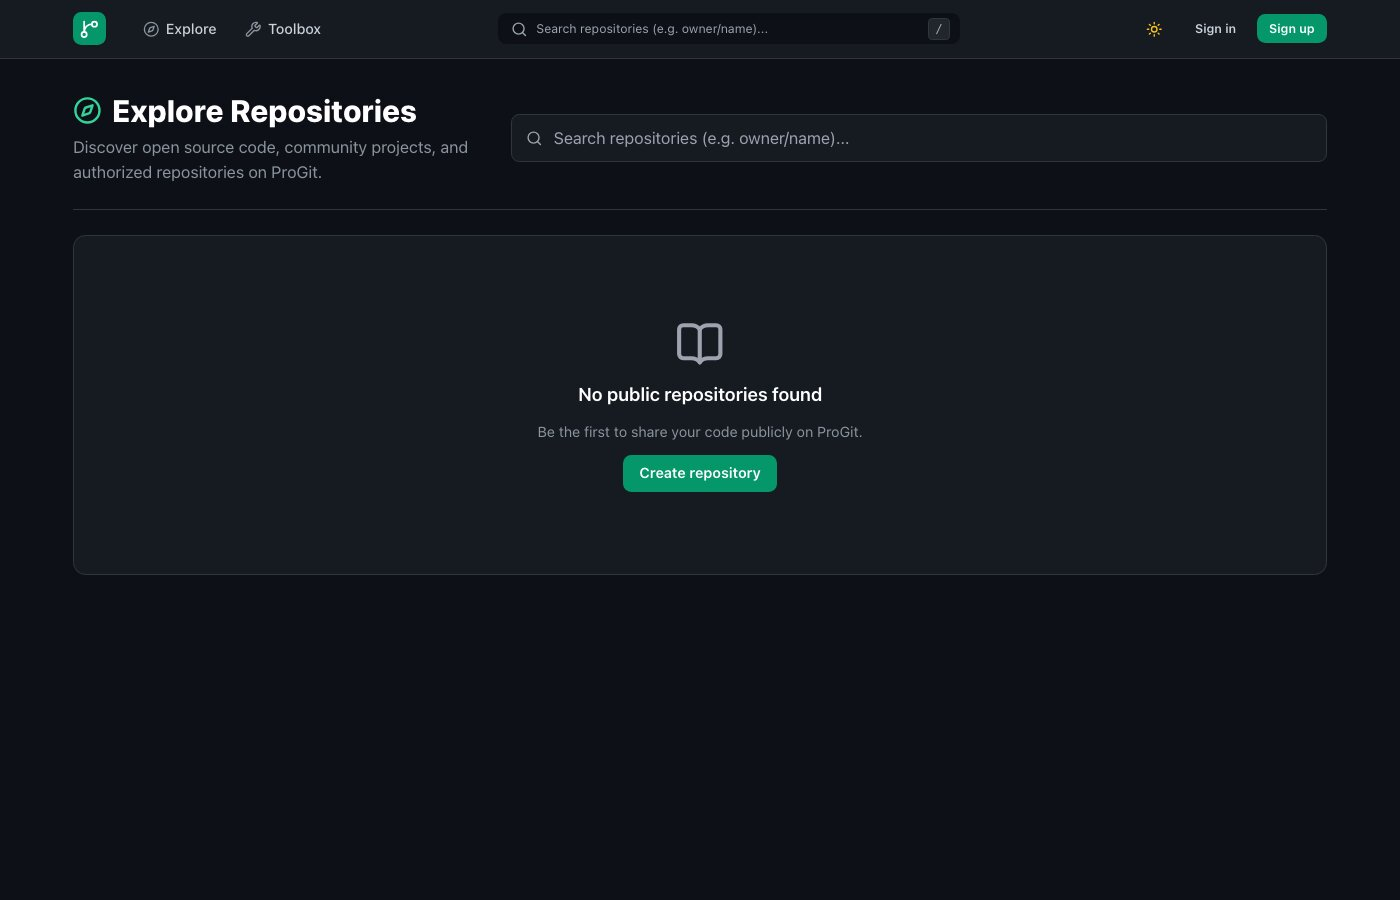
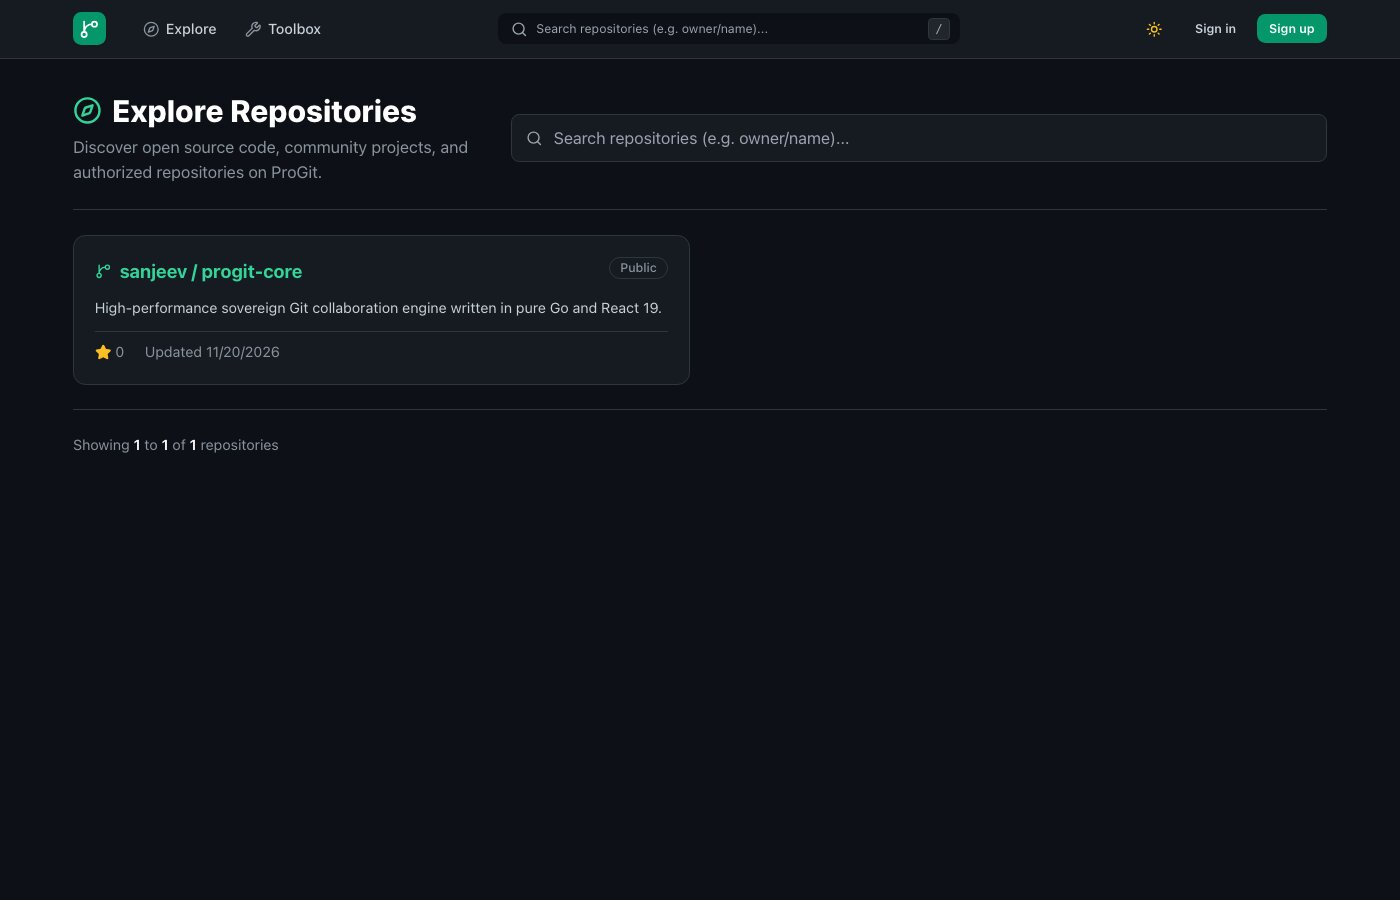
docs: enrich documentation portal and guides with authentic UI screenshots
- Add repository code browser screenshot (repo-code-browser.jpg) to Git operations guide and README
- Add issue tracker screenshot (repo-issue-tracker.jpg) to issues API reference and User Guide
- Add OIDC / Keycloak login screenshot (progit-login-oidc.jpg) to SSO configuration guide and User Guide
- Add repository explorer screenshot (progit-explore.jpg) to search and discovery section and User Guide
- Add toolbox screenshots for Code Snippet Manager, JSONPath Tester, and SQL Explainer
- Sync both index.html and docs/index.html for progit.co.in documentation portal

diff --git a/docs/index.html b/docs/index.html
@@ -2840,6 +2840,10 @@ PRAGMA foreign_keys = ON;</code><button class="copy-btn" onclick="copyCode(this)
         <h1 class="page-title">Single Sign-On (OIDC &amp; OAuth2) &mdash; Keycloak &amp; ZTrust Guide</h1>
         <p class="page-subtitle">Built directly into ProGit OSS: configure and use one-click corporate login with Keycloak, ZTrust IAM, Google Workspace, GitHub, Microsoft 365, Okta, or Authentik with live hot-reload.</p>
 
+        <div style="margin: 1.5rem 0; border-radius: 12px; overflow: hidden; border: 1px solid var(--border); box-shadow: 0 12px 35px rgba(0,0,0,0.45);">
+          <img src="assets/images/progit-login-oidc.jpg" alt="ProGit Enterprise Single Sign-On and Local Login Screen" style="width: 100%; display: block;" />
+        </div>
+
         <div class="callout callout-info">
           <div class="callout-title">100% Built-In Open Source (No License Wall)</div>
           <div>ProGit OSS contains a pure Go OIDC and OAuth2 authentication engine with live Admin Panel hot-reload. No external proxy, sidecar, or paid enterprise license is required. All token verification, <code>/.well-known/openid-configuration</code> discovery, JWT ID token claim parsing, and JIT user provisioning run locally inside ProGit.</div>
@@ -3026,6 +3030,10 @@ podman run -d --pod progit-sso-pod --name progit \
         </div>
         <h1 class="page-title">Smart HTTP &amp; SSH Git Operations</h1>
         <p class="page-subtitle">Full compliance with the Git v2 Smart Transfer Protocol.</p>
+
+        <div style="margin: 1.5rem 0; border-radius: 12px; overflow: hidden; border: 1px solid var(--border); box-shadow: 0 12px 35px rgba(0,0,0,0.45);">
+          <img src="assets/images/repo-code-browser.jpg" alt="ProGit Repository View and Code Browser" style="width: 100%; display: block;" />
+        </div>
 
         <h2>Clone Formats</h2>
         <ul>
@@ -3542,7 +3550,19 @@ def verify_progit_signature(payload_bytes, secret_key, header_signature):
           <img src="assets/images/toolbox-regex-library.jpg" alt="ProGit Regex Library Tool with Live Matcher" style="width: 100%; display: block;" />
         </div>
 
+        <div style="display: grid; grid-template-columns: repeat(auto-fit, minmax(320px, 1fr)); gap: 1.5rem; margin: 1.5rem 0;">
+          <div style="border-radius: 12px; overflow: hidden; border: 1px solid var(--border); box-shadow: 0 12px 35px rgba(0,0,0,0.45);">
+            <img src="assets/images/toolbox-snippet-manager.jpg" alt="ProGit Code Snippet Manager Vault" style="width: 100%; display: block;" />
+          </div>
+          <div style="border-radius: 12px; overflow: hidden; border: 1px solid var(--border); box-shadow: 0 12px 35px rgba(0,0,0,0.45);">
+            <img src="assets/images/toolbox-jsonpath.jpg" alt="ProGit JSONPath Evaluator and Tester" style="width: 100%; display: block;" />
+          </div>
+        </div>
+
         <h3>2. Database Suite (6 Utilities)</h3>
+        <div style="margin: 1.5rem 0; border-radius: 12px; overflow: hidden; border: 1px solid var(--border); box-shadow: 0 12px 35px rgba(0,0,0,0.45);">
+          <img src="assets/images/toolbox-sql-explainer.jpg" alt="ProGit SQL Query Explainer and Optimizer" style="width: 100%; display: block;" />
+        </div>
         <ul>
           <li><strong>SQL Formatter</strong>: Standardizes complex queries with custom indentation, uppercase keywords, and clean multi-line wrapping.</li>
           <li><strong>SQL Beautifier</strong>: Advanced SQL layout engine with aligned relational clauses and dedicated fullscreen editing mode.</li>
@@ -3685,6 +3705,10 @@ Response:
         </div>
         <h1 class="page-title">Repository Search &amp; Discovery</h1>
         <p class="page-subtitle">Real-time debounced autocomplete, keyboard navigation shortcuts, URL-synchronized exploration, and multi-tenant access control.</p>
+
+        <div style="margin: 1.5rem 0; border-radius: 12px; overflow: hidden; border: 1px solid var(--border); box-shadow: 0 12px 35px rgba(0,0,0,0.45);">
+          <img src="assets/images/progit-explore.jpg" alt="ProGit Repository Catalog and Explore Search" style="width: 100%; display: block;" />
+        </div>
 
         <h2>Global Navbar Search</h2>
         <p>ProGit provides a responsive, debounced search bar embedded in the global top navigation on every page:</p>
@@ -4291,6 +4315,10 @@ Content-Type: application/json
         </div>
         <h1 class="page-title">Issues &amp; Assignees API</h1>
         <p class="page-subtitle">Endpoints for issue tracking, discussion comments, and security-scoped collaborator assignees.</p>
+
+        <div style="margin: 1.5rem 0; border-radius: 12px; overflow: hidden; border: 1px solid var(--border); box-shadow: 0 12px 35px rgba(0,0,0,0.45);">
+          <img src="assets/images/repo-issue-tracker.jpg" alt="ProGit Issue Tracker and Collaborator Assignment" style="width: 100%; display: block;" />
+        </div>
 
         <h2>List Issues</h2>
         <div class="api-endpoint"><span class="badge badge-get">GET</span><span>/api/v1/repos/{owner}/{repo}/issues</span></div>

diff --git a/index.html b/index.html
@@ -2840,6 +2840,10 @@ PRAGMA foreign_keys = ON;</code><button class="copy-btn" onclick="copyCode(this)
         <h1 class="page-title">Single Sign-On (OIDC &amp; OAuth2) &mdash; Keycloak &amp; ZTrust Guide</h1>
         <p class="page-subtitle">Built directly into ProGit OSS: configure and use one-click corporate login with Keycloak, ZTrust IAM, Google Workspace, GitHub, Microsoft 365, Okta, or Authentik with live hot-reload.</p>
 
+        <div style="margin: 1.5rem 0; border-radius: 12px; overflow: hidden; border: 1px solid var(--border); box-shadow: 0 12px 35px rgba(0,0,0,0.45);">
+          <img src="assets/images/progit-login-oidc.jpg" alt="ProGit Enterprise Single Sign-On and Local Login Screen" style="width: 100%; display: block;" />
+        </div>
+
         <div class="callout callout-info">
           <div class="callout-title">100% Built-In Open Source (No License Wall)</div>
           <div>ProGit OSS contains a pure Go OIDC and OAuth2 authentication engine with live Admin Panel hot-reload. No external proxy, sidecar, or paid enterprise license is required. All token verification, <code>/.well-known/openid-configuration</code> discovery, JWT ID token claim parsing, and JIT user provisioning run locally inside ProGit.</div>
@@ -3026,6 +3030,10 @@ podman run -d --pod progit-sso-pod --name progit \
         </div>
         <h1 class="page-title">Smart HTTP &amp; SSH Git Operations</h1>
         <p class="page-subtitle">Full compliance with the Git v2 Smart Transfer Protocol.</p>
+
+        <div style="margin: 1.5rem 0; border-radius: 12px; overflow: hidden; border: 1px solid var(--border); box-shadow: 0 12px 35px rgba(0,0,0,0.45);">
+          <img src="assets/images/repo-code-browser.jpg" alt="ProGit Repository View and Code Browser" style="width: 100%; display: block;" />
+        </div>
 
         <h2>Clone Formats</h2>
         <ul>
@@ -3542,7 +3550,19 @@ def verify_progit_signature(payload_bytes, secret_key, header_signature):
           <img src="assets/images/toolbox-regex-library.jpg" alt="ProGit Regex Library Tool with Live Matcher" style="width: 100%; display: block;" />
         </div>
 
+        <div style="display: grid; grid-template-columns: repeat(auto-fit, minmax(320px, 1fr)); gap: 1.5rem; margin: 1.5rem 0;">
+          <div style="border-radius: 12px; overflow: hidden; border: 1px solid var(--border); box-shadow: 0 12px 35px rgba(0,0,0,0.45);">
+            <img src="assets/images/toolbox-snippet-manager.jpg" alt="ProGit Code Snippet Manager Vault" style="width: 100%; display: block;" />
+          </div>
+          <div style="border-radius: 12px; overflow: hidden; border: 1px solid var(--border); box-shadow: 0 12px 35px rgba(0,0,0,0.45);">
+            <img src="assets/images/toolbox-jsonpath.jpg" alt="ProGit JSONPath Evaluator and Tester" style="width: 100%; display: block;" />
+          </div>
+        </div>
+
         <h3>2. Database Suite (6 Utilities)</h3>
+        <div style="margin: 1.5rem 0; border-radius: 12px; overflow: hidden; border: 1px solid var(--border); box-shadow: 0 12px 35px rgba(0,0,0,0.45);">
+          <img src="assets/images/toolbox-sql-explainer.jpg" alt="ProGit SQL Query Explainer and Optimizer" style="width: 100%; display: block;" />
+        </div>
         <ul>
           <li><strong>SQL Formatter</strong>: Standardizes complex queries with custom indentation, uppercase keywords, and clean multi-line wrapping.</li>
           <li><strong>SQL Beautifier</strong>: Advanced SQL layout engine with aligned relational clauses and dedicated fullscreen editing mode.</li>
@@ -3685,6 +3705,10 @@ Response:
         </div>
         <h1 class="page-title">Repository Search &amp; Discovery</h1>
         <p class="page-subtitle">Real-time debounced autocomplete, keyboard navigation shortcuts, URL-synchronized exploration, and multi-tenant access control.</p>
+
+        <div style="margin: 1.5rem 0; border-radius: 12px; overflow: hidden; border: 1px solid var(--border); box-shadow: 0 12px 35px rgba(0,0,0,0.45);">
+          <img src="assets/images/progit-explore.jpg" alt="ProGit Repository Catalog and Explore Search" style="width: 100%; display: block;" />
+        </div>
 
         <h2>Global Navbar Search</h2>
         <p>ProGit provides a responsive, debounced search bar embedded in the global top navigation on every page:</p>
@@ -4291,6 +4315,10 @@ Content-Type: application/json
         </div>
         <h1 class="page-title">Issues &amp; Assignees API</h1>
         <p class="page-subtitle">Endpoints for issue tracking, discussion comments, and security-scoped collaborator assignees.</p>
+
+        <div style="margin: 1.5rem 0; border-radius: 12px; overflow: hidden; border: 1px solid var(--border); box-shadow: 0 12px 35px rgba(0,0,0,0.45);">
+          <img src="assets/images/repo-issue-tracker.jpg" alt="ProGit Issue Tracker and Collaborator Assignment" style="width: 100%; display: block;" />
+        </div>
 
         <h2>List Issues</h2>
         <div class="api-endpoint"><span class="badge badge-get">GET</span><span>/api/v1/repos/{owner}/{repo}/issues</span></div>

diff --git a/docs/USER_GUIDE.md b/docs/USER_GUIDE.md
@@ -32,6 +32,8 @@ ProGit supports both standard local database authentication and enterprise Singl
 - **Domain Restriction**: If domain filtering is enabled, only users with email addresses matching your organization's allowed domains can log in. Attempting to log in with an unauthorized email will present an immediate security alert.
 - **Fail-Safe Access**: Administrators can always use standard credentials to log in even if third-party SSO providers experience temporary upstream downtime.
 
+![ProGit Single Sign-On and Local Login Screen](../assets/images/progit-login-oidc.jpg)
+
 ---
 
 ## 2. Managing Repositories
@@ -97,6 +99,8 @@ ProGit features a global, real-time repository search engine:
 - **Explore Page Search (`/explore?q=...`)**: Full search results page with deep URL synchronization, allowing users to bookmark or share search queries.
 - **Access Control & Privacy**: Repository search strictly adheres to security boundaries. Public repositories are discoverable by everyone. Private repositories only appear in search results for their authenticated owners, collaborators, and organization members. Stranger and unauthenticated queries never leak the existence of private repositories.
 
+![ProGit Explore & Repository Catalog](../assets/images/progit-explore.jpg)
+
 ---
 
 ## 3. Code Browsing & Explorer Layout
@@ -109,6 +113,8 @@ ProGit features a GitHub-style two-column file explorer interface:
 - **Syntax Highlighting & Auto-Theme**: Code highlighting automatically matches the global light or dark theme with zero user configuration required.
 - **Clickable Line Anchors & Permalinks**: Click any line number in the code viewer to jump to that line and automatically copy the permalink (`#L42`) to your clipboard.
 - **Git Blame View**: Switch between **Code** and **Blame** tabs to inspect line-by-line history, including commit author, short SHA, commit summary, and relative date.
+
+![ProGit Repository View and Code Browser](../assets/images/repo-code-browser.jpg)
 
 ### 3.1 Online File Creation and Colorful Syntax Highlighting Editor
 ProGit features a responsive, full-featured web code editor with live syntax highlighting:
@@ -141,6 +147,8 @@ ProGit features a responsive, full-featured web code editor with live syntax hig
 1. Navigate to the **Issues** tab.
 2. Click **New Issue** to report bugs or track feature ideas.
 3. Add comments, assign team members, and track status.
+
+![ProGit Issue Tracker with Filter and Assignee Dropdown](../assets/images/repo-issue-tracker.jpg)
 
 ### 4.2 Pull Requests & Merges
 - **Public Visibility Without Login**: Pull requests on public repositories are accessible to the public without requiring a login, allowing open-source communities and external developers to browse code reviews, compare diffs, and inspect review comments.
@@ -463,9 +471,12 @@ ProGit includes a built-in **Developer Toolbox** accessible from the top navigat
 - **Regex Library & Live Tester**: Comprehensive pattern directory (web, forms, security, code) with real-time match highlighting and regex capture group extraction.
   ![Regex Library Tool](../assets/images/toolbox-regex-library.jpg)
 - **Code Snippet Manager**: Browser-persisted snippet vault with syntax highlighting, language filtering, tagging, and JSON backup/restore.
+  ![ProGit Code Snippet Manager Vault](../assets/images/toolbox-snippet-manager.jpg)
 - **JSON Path Tester**: Real-time JSONPath evaluator supporting root access (`$`), wildcards (`.*`), recursive descent (`..`), slice indexing, and predicate filters (`[?(@.price < 20)]`).
+  ![ProGit JSONPath Evaluator and Tester](../assets/images/toolbox-jsonpath.jpg)
 - **XPath Tester**: XML XPath 1.0 evaluator supporting DOM node matching, attribute selection, and serialized node output.
 - **SQL Query Explainer**: Static SQL analyzer detailing query execution order (`FROM` &rarr; `WHERE` &rarr; `SELECT`), clause mechanics, and index recommendations.
+  ![ProGit SQL Query Explainer and Optimizer](../assets/images/toolbox-sql-explainer.jpg)
 - **Stack Trace Explainer**: Parser for Java, Python, Node.js, and Go; highlights root cause exceptions, filters runtime noise, and recommends actionable code remediations.
 - **Error Code Search**: Directory of HTTP status codes, Linux/POSIX errno & signals, Java exceptions, and Docker/Git error codes.
 - **Log Analyzer**: Log parser featuring automatic severity level classification (`ERROR`, `WARN`, `INFO`, `DEBUG`), regex filtering, timeline charts, and clean export.

diff --git a/README.md b/README.md
@@ -33,6 +33,11 @@
   - Issues & Labels, Milestones, and threaded Markdown comments.
   - Pull Requests with live syntax diffing, comparison, and native Git merges (Merge Commit, Squash, Rebase).
   - Branch protection, forks, stars, and activity feeds.
+
+<p align="center">
+  <img src="assets/images/repo-code-browser.jpg" alt="ProGit Repository Code Browser &amp; File Tree" width="100%" style="border-radius: 8px;" />
+</p>
+
 - **OpenID Connect (OIDC) & OAuth2 SSO**: Native single sign-on with Google Workspace, GitHub, Microsoft 365, Keycloak, and generic OIDC providers with Just-In-Time (JIT) provisioning and corporate domain whitelisting.
 - **Self-Hosted Administration**: First-run setup installation wizard, Super Admin management panel, runtime telemetry, and database WAL maintenance.
 
@@ -92,6 +97,11 @@ ProGit features a built-in, zero-overhead developer productivity suite at `/tool
 - **Regex Library & Live Tester**: Comprehensive pattern directory (web, forms, security, code) with real-time match highlighting and regex capture group extraction.
   <p align="center">
     <img src="assets/images/toolbox-regex-library.jpg" alt="Regex Library" width="100%" style="border-radius: 8px;" />
+  </p>
+
+- **Code Snippet Vault & JSONPath Tester**: In-browser reusable code snippet manager with tag filters, syntax highlighting, and live JSONPath evaluator.
+  <p align="center">
+    <img src="assets/images/toolbox-snippet-manager.jpg" alt="Code Snippet Manager" width="100%" style="border-radius: 8px;" />
   </p>
 
 ### Complete Directory of 37 Utilities
